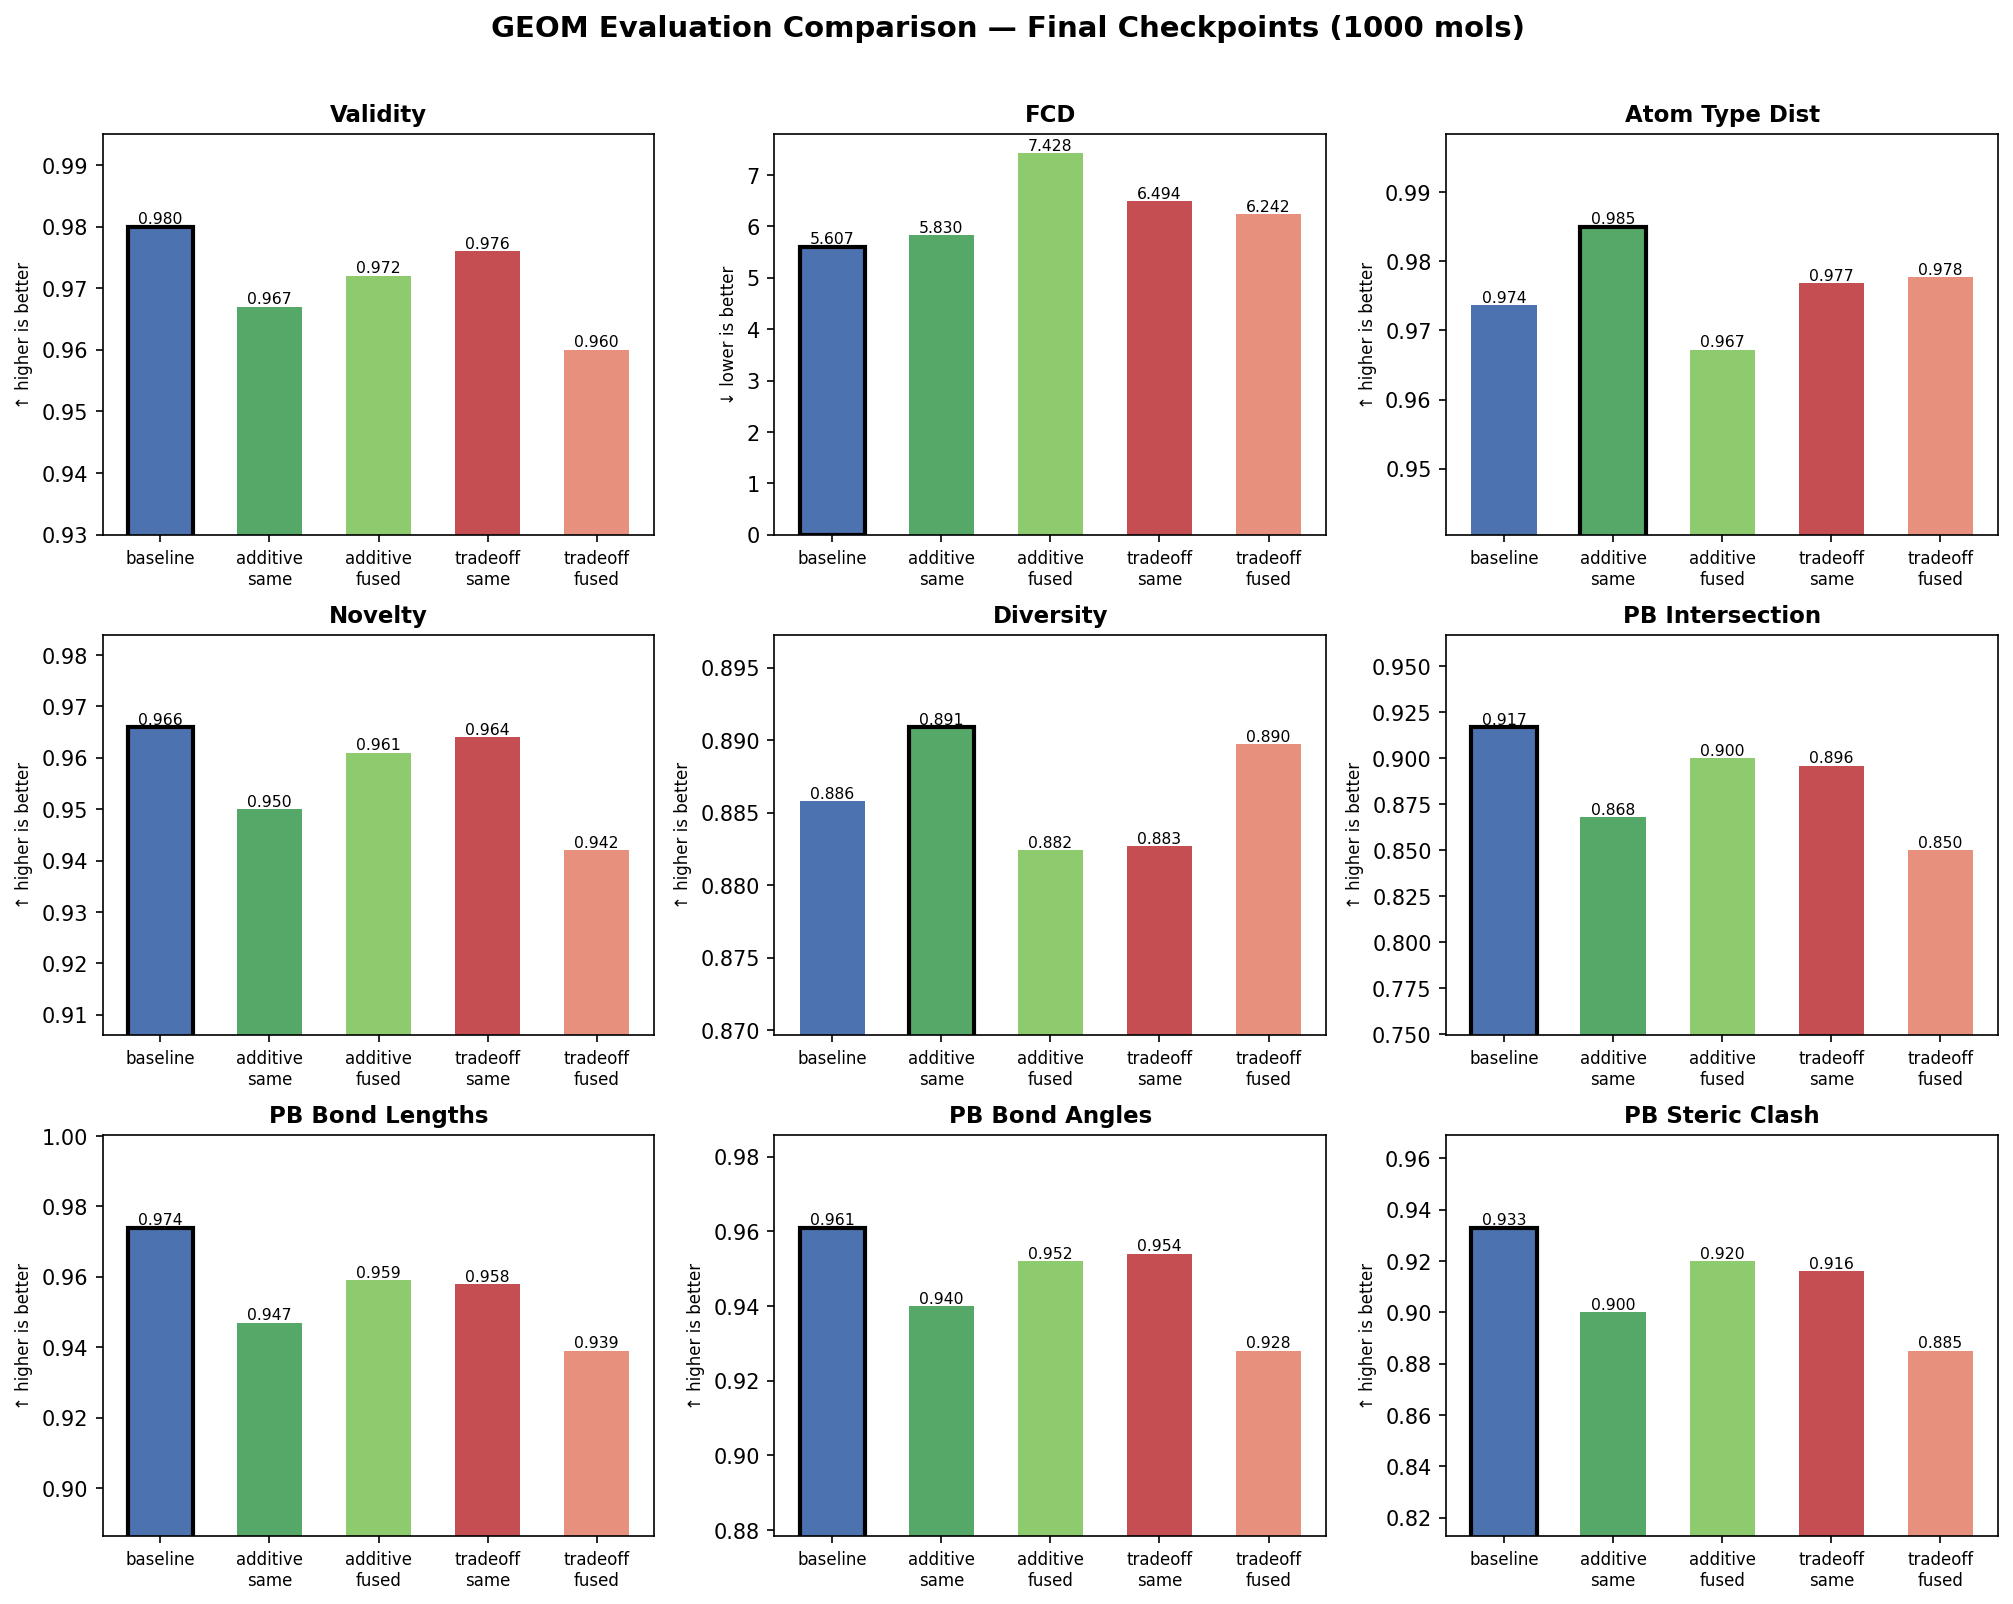
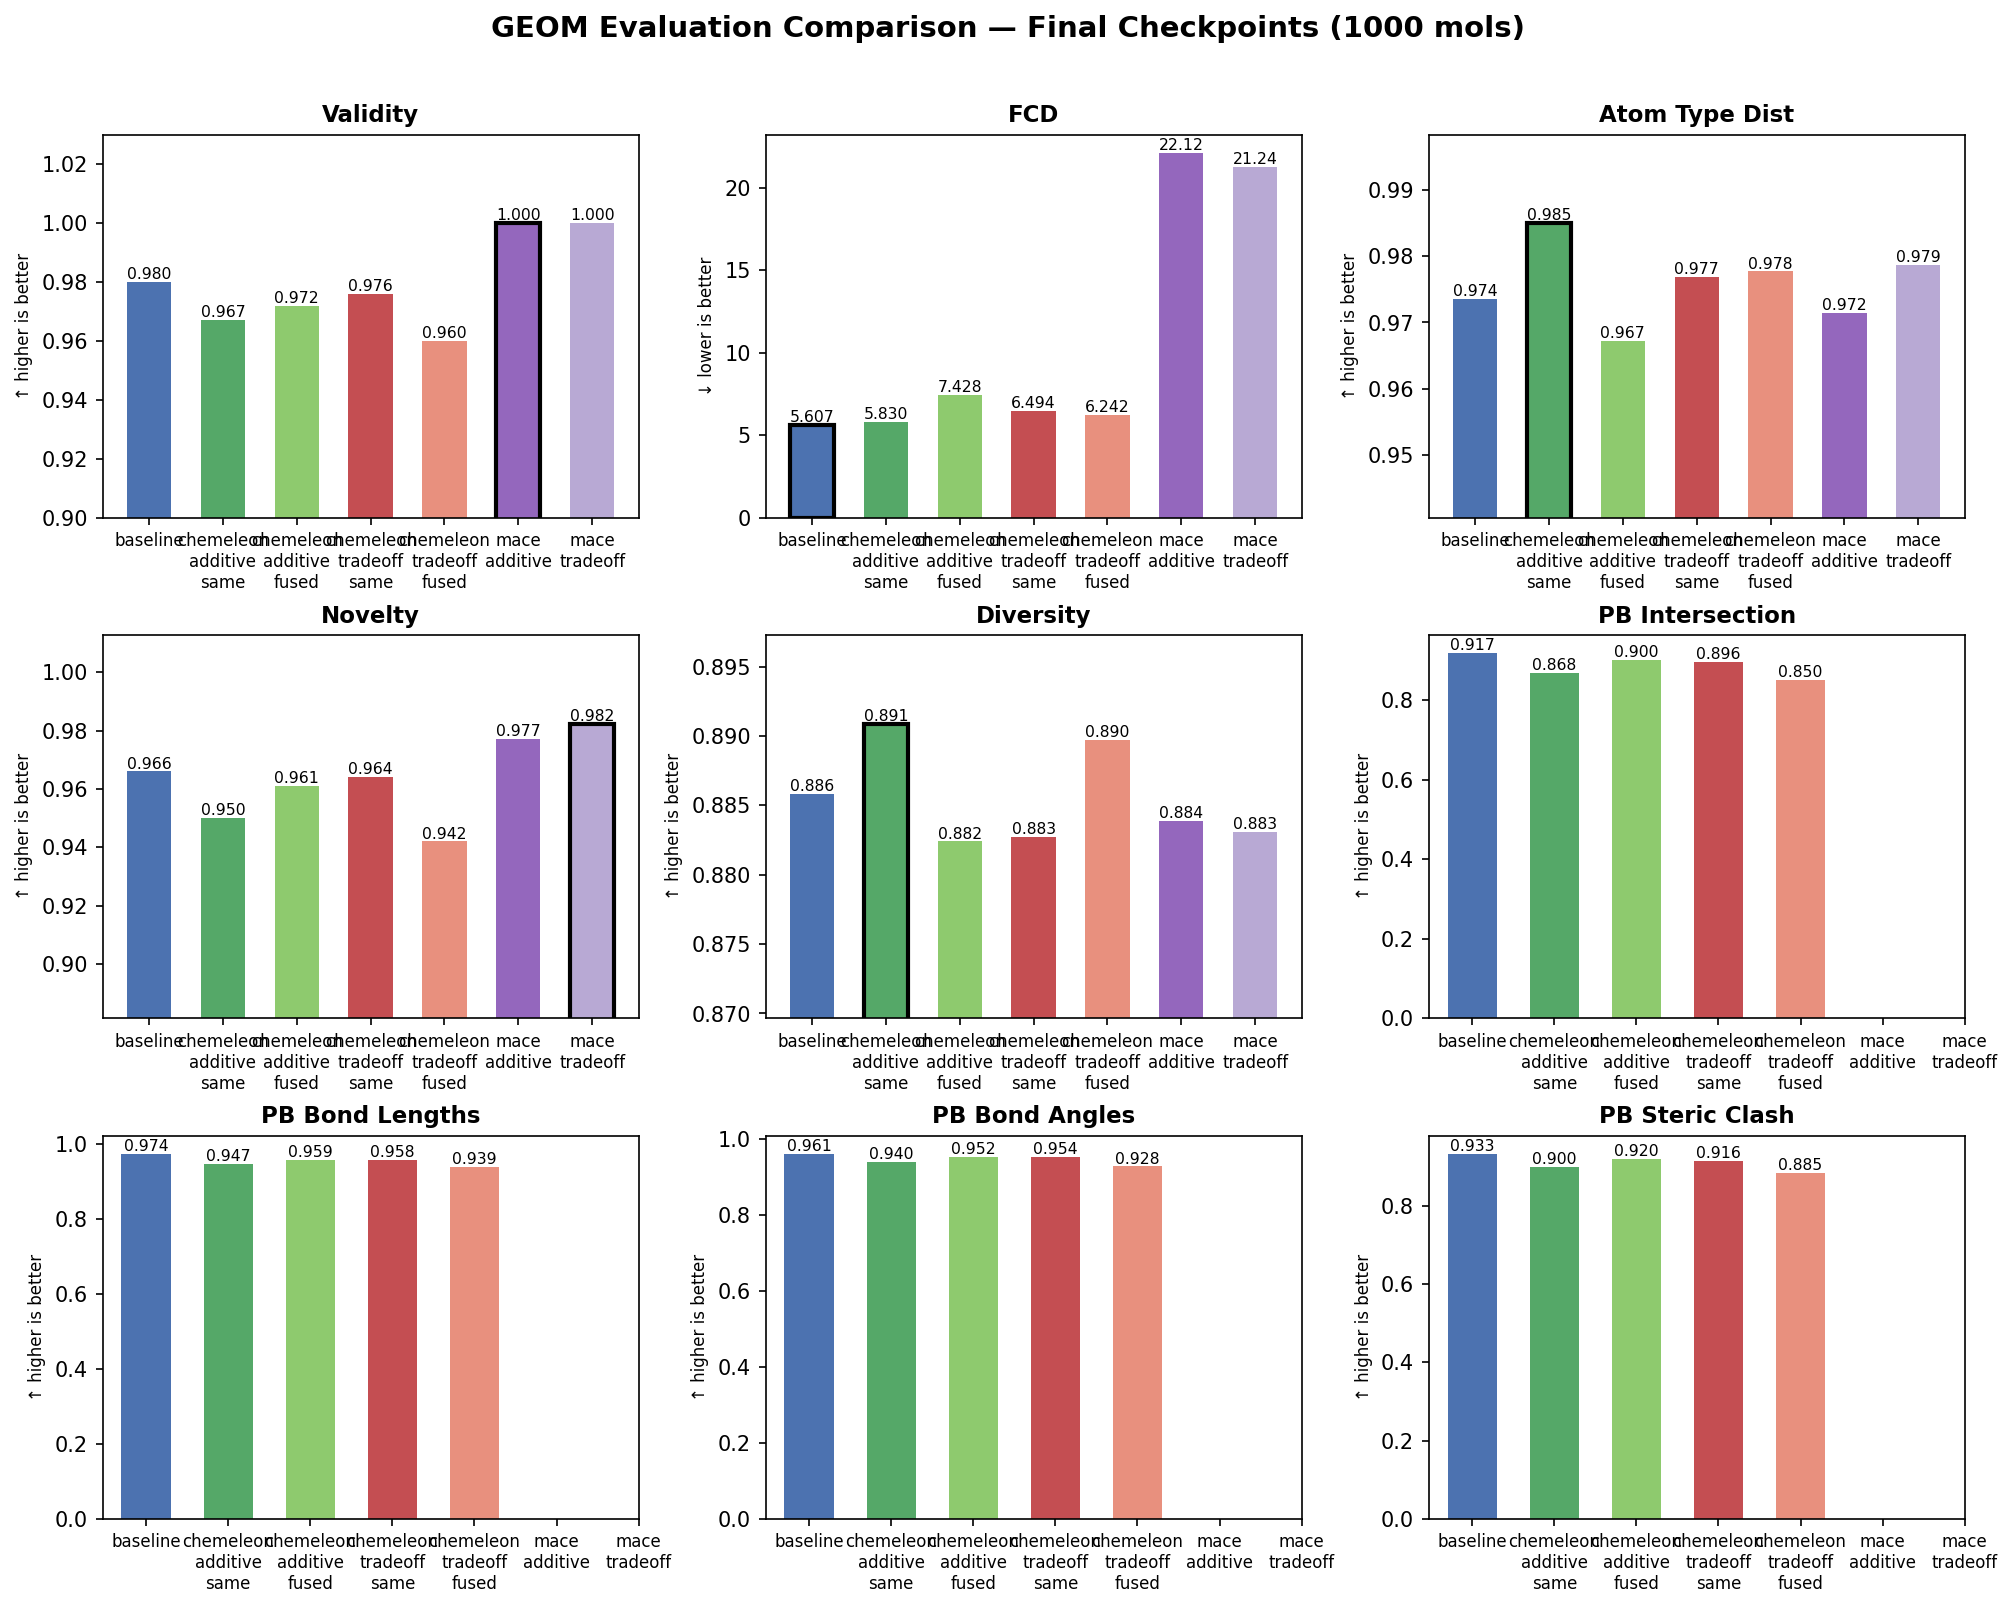
Rename CheMeleon model labels from additive_*/tradeoff_* to chemeleon_* for clarity

diff --git a/evaluation/scripts/tabasco/geom/compile_wandb_curves.py b/evaluation/scripts/tabasco/geom/compile_wandb_curves.py
@@ -34,30 +34,30 @@ WANDB_PROJECT = "sr2173-university-of-cambridge/tabasco"
 
 RUNS = {
     "baseline": ["s105bkm0", "yy363ps7"],  # part1 (epochs 0-7) + part2 (epochs 8-32)
-    "additive_same": ["0fbrr8vx"],
-    "additive_fused": ["x3c4vid0"],
-    "tradeoff_same": ["cqjant8r"],
-    "tradeoff_fused": ["7u3l0zpy"],
+    "chemeleon_additive_same": ["0fbrr8vx"],
+    "chemeleon_additive_fused": ["x3c4vid0"],
+    "chemeleon_tradeoff_same": ["cqjant8r"],
+    "chemeleon_tradeoff_fused": ["7u3l0zpy"],
     "mace_additive": ["7kuaxjk4", "1cj5gk44"],  # GPU live (ep 0-3) + cached (ep 3-15)
     "mace_tradeoff": ["uq02ccie", "5s25bbx3"],  # GPU live (ep 0-3) + cached (ep 3-15)
 }
 
 MODEL_ORDER = [
     "baseline",
-    "additive_same",
-    "additive_fused",
-    "tradeoff_same",
-    "tradeoff_fused",
+    "chemeleon_additive_same",
+    "chemeleon_additive_fused",
+    "chemeleon_tradeoff_same",
+    "chemeleon_tradeoff_fused",
     "mace_additive",
     "mace_tradeoff",
 ]
 
 COLORS = {
     "baseline": "#4C72B0",
-    "additive_same": "#55A868",
-    "additive_fused": "#8ECA6E",
-    "tradeoff_same": "#C44E52",
-    "tradeoff_fused": "#E8907E",
+    "chemeleon_additive_same": "#55A868",
+    "chemeleon_additive_fused": "#8ECA6E",
+    "chemeleon_tradeoff_same": "#C44E52",
+    "chemeleon_tradeoff_fused": "#E8907E",
     "mace_additive": "#9467BD",
     "mace_tradeoff": "#B8A9D4",
 }

diff --git a/evaluation/scripts/compile_results.py b/evaluation/scripts/compile_results.py
@@ -42,18 +42,22 @@ KEY_METRICS = [
 
 MODEL_ORDER = [
     "baseline",
-    "additive_same",
-    "additive_fused",
-    "tradeoff_same",
-    "tradeoff_fused",
+    "chemeleon_additive_same",
+    "chemeleon_additive_fused",
+    "chemeleon_tradeoff_same",
+    "chemeleon_tradeoff_fused",
+    "mace_additive",
+    "mace_tradeoff",
 ]
 
 COLORS = {
     "baseline": "#4C72B0",
-    "additive_same": "#55A868",
-    "additive_fused": "#8ECA6E",
-    "tradeoff_same": "#C44E52",
-    "tradeoff_fused": "#E8907E",
+    "chemeleon_additive_same": "#55A868",
+    "chemeleon_additive_fused": "#8ECA6E",
+    "chemeleon_tradeoff_same": "#C44E52",
+    "chemeleon_tradeoff_fused": "#E8907E",
+    "mace_additive": "#9467BD",
+    "mace_tradeoff": "#B8A9D4",
 }
 
 
@@ -199,7 +203,9 @@ def main():
     print()
 
     # Plot comparison
-    plot_path = results_dir / "evaluation_comparison.png"
+    fig_dir = results_dir / "figures"
+    fig_dir.mkdir(exist_ok=True)
+    plot_path = fig_dir / "evaluation_comparison.png"
     plot_comparison(df, plot_path)
 
 

diff --git a/evaluation/scripts/strip_checkpoint.py b/evaluation/scripts/strip_checkpoint.py
@@ -21,10 +21,10 @@ OUTPUTS_ROOT = Path("/rds/user/sr2173/hpc-work/tabasco/outputs")
 
 CHECKPOINT_MAP = {
     "baseline": "geom_mild/checkpoints/last.ckpt",
-    "additive_fused": "geom_chemprop_additive_v2/checkpoints/last.ckpt",
-    "additive_same": "geom_chemprop_additive/checkpoints/last.ckpt",
-    "tradeoff_fused": "geom_chemprop_tradeoff_v2/checkpoints/last.ckpt",
-    "tradeoff_same": "geom_chemprop_tradeoff/checkpoints/last.ckpt",
+    "chemeleon_additive_fused": "geom_chemprop_additive_v2/checkpoints/last.ckpt",
+    "chemeleon_additive_same": "geom_chemprop_additive/checkpoints/last.ckpt",
+    "chemeleon_tradeoff_fused": "geom_chemprop_tradeoff_v2/checkpoints/last.ckpt",
+    "chemeleon_tradeoff_same": "geom_chemprop_tradeoff/checkpoints/last.ckpt",
     "mace_additive": "geom_mace_cached_additive_v2/checkpoints/last.ckpt",
     "mace_tradeoff": "geom_mace_cached_tradeoff_v2/checkpoints/last.ckpt",
 }

diff --git a/evaluation/scripts/evaluate.py b/evaluation/scripts/evaluate.py
@@ -575,10 +575,10 @@ RESULTS_DIR = Path("evaluation/results/tabasco/geom/evaluation")
 
 ALL_MODELS = {
     "baseline": CHECKPOINT_DIR / "baseline.ckpt",
-    "additive_fused": CHECKPOINT_DIR / "additive_fused.ckpt",
-    "additive_same": CHECKPOINT_DIR / "additive_same.ckpt",
-    "tradeoff_fused": CHECKPOINT_DIR / "tradeoff_fused.ckpt",
-    "tradeoff_same": CHECKPOINT_DIR / "tradeoff_same.ckpt",
+    "chemeleon_additive_fused": CHECKPOINT_DIR / "chemeleon_additive_fused.ckpt",
+    "chemeleon_additive_same": CHECKPOINT_DIR / "chemeleon_additive_same.ckpt",
+    "chemeleon_tradeoff_fused": CHECKPOINT_DIR / "chemeleon_tradeoff_fused.ckpt",
+    "chemeleon_tradeoff_same": CHECKPOINT_DIR / "chemeleon_tradeoff_same.ckpt",
     "mace_additive": CHECKPOINT_DIR / "mace_additive.ckpt",
     "mace_tradeoff": CHECKPOINT_DIR / "mace_tradeoff.ckpt",
 }

diff --git a/evaluation/METRICS.md b/evaluation/METRICS.md
@@ -31,7 +31,7 @@ Two collection contexts:
 
 From WandB training runs. All 5 GEOM models.
 
-| Metric | Baseline | Add-Fused | Add-Same | Trade-Fused | Trade-Same |
+| Metric | Baseline | ChM Add-Fused | ChM Add-Same | ChM Trade-Fused | ChM Trade-Same |
 |--------|----------|-----------|----------|-------------|------------|
 | Validity | ~0.94 | ~0.94 | ~0.94 | ~0.98 | ~0.98 |
 | Connectivity | ~1.00 | ~1.00 | ~1.00 | ~1.00 | ~1.00 |
@@ -129,7 +129,7 @@ From WandB training runs. All 5 GEOM models.
 - **Formula:** PoseBusters `bond_angles` check (pass/fail per mol), averaged.
 - **Code:** PoseBusters library via callback; logged as `val/pb_bond_angles`.
 - **When:** Same schedule. evaluate.py: included in PB results.
-- **Saturation:** MODERATE. Some spread between models but still fairly high for all. The ordering is inconsistent (Add-Fused is worst) suggesting noise.
+- **Saturation:** MODERATE. Some spread between models but still fairly high for all. The ordering is inconsistent (CheMeleon Add-Fused is worst) suggesting noise.
 
 ### 11. PoseBusters: Bond Lengths OK
 
